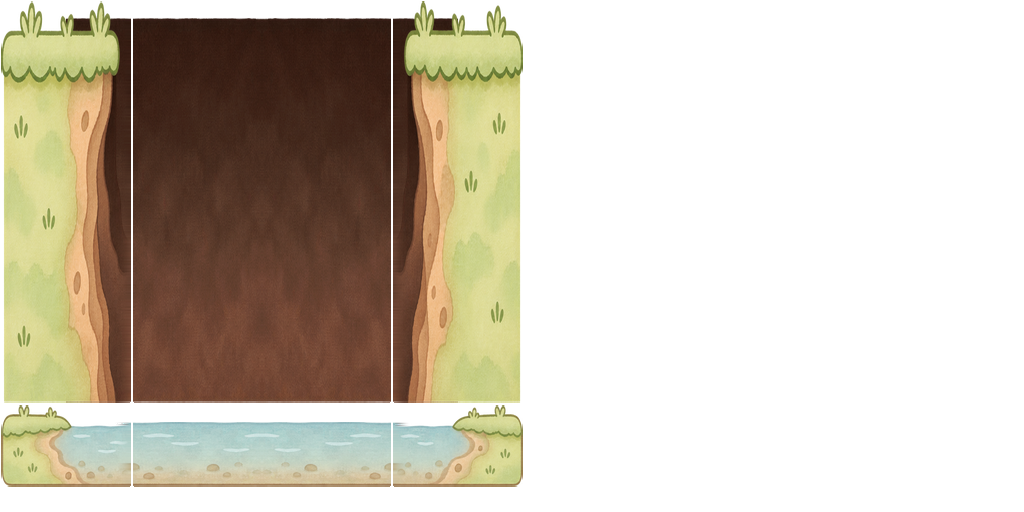
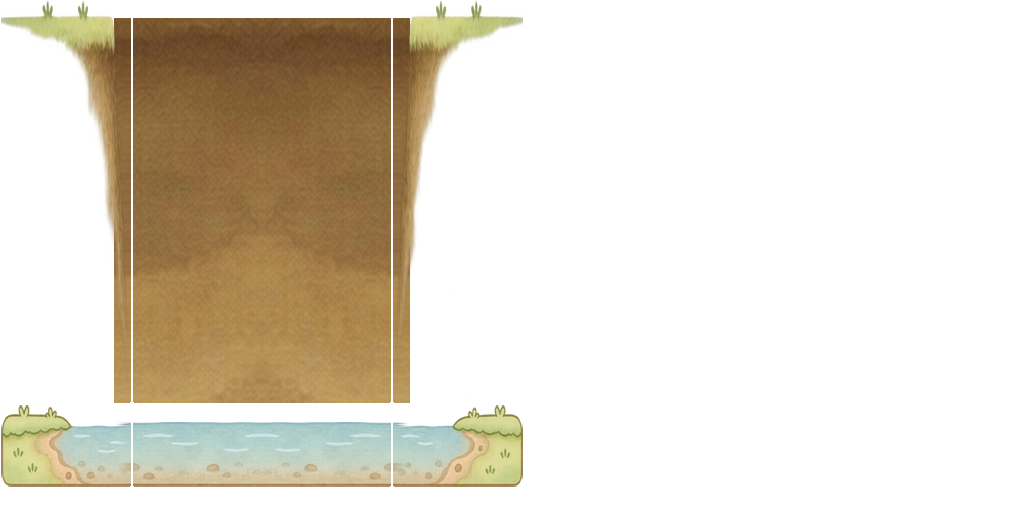
Blend pit rims into the existing watercolor meadow

diff --git a/README.md b/README.md
@@ -1,5 +1,7 @@
 # 치이카와 런 · 모몽가의 작은 도주 (팬메이드 프로토타입)
 
+구덩이 3단 모듈은 초원 지면(`meadow-near.webp`)에 맞춘 얇은 잔디 입구와 투명 외곽을 사용합니다. 사각형 잔디 둑으로 기존 지면을 덮지 않고 아래쪽 흙벽과 깊이만 표시하며, 물웅덩이 프레임·구덩이 낙하 폭·모듈 규격은 유지합니다.
+
 구덩이·물웅덩이 가로 조립용 에셋은 `public/assets/terrain-water.webp/json`에 준비되어 있습니다. 각 종류는 `pit-left/middle/right`, `puddle-left/middle/right` 3프레임을 사용하고 좌측 캡 + 중간 N회 반복 + 우측 캡으로 조립합니다. 원본은 표시 크기의 2배이며, 표시 규격은 구덩이 캡 64×200/중간 128×200px, 물웅덩이 캡 64×40/중간 128×40px입니다. 지면·수면은 그림 상단에서 8px 아래에 맞춥니다. 캡은 늘이지 않고 중간 타일 수로 길이를 바꾸며, 구덩이의 실제 낙하 폭은 캡의 흙둑을 제외한 안쪽 입구에 맞춰야 합니다. 게임에서는 구덩이와 물웅덩이를 이 모듈로 조립해 짧은 것(중간 1칸)과 긴 것(구덩이 4칸, 웅덩이 3칸)으로 나옵니다. 물웅덩이는 해롭지 않지만 바닥에서 걸으면 25% 느려지고(점프·활공·2층·황금 가속 중에는 감속 없음), 긴 구덩이·긴 웅덩이 위에는 항상 2층 대피 발판이 함께 나옵니다.
 
 주행 음식은 푸딩·멜론 크림소다·핫케이크·로스카츠 샌드위치·슈크림·스키야키 전골·피자 토스트·구운 옥수수·오차즈케 9종입니다. 전용 `food-atlas.webp/json`의 모든 프레임은 64×64이며, 게임에서는 모두 54×54로 표시합니다(충돌 판정은 32×32 그대로). 종류 선택은 위치와 시드로 정해지고 음식 효과·충돌 크기·생성 간격은 기존 규칙을 따릅니다.
